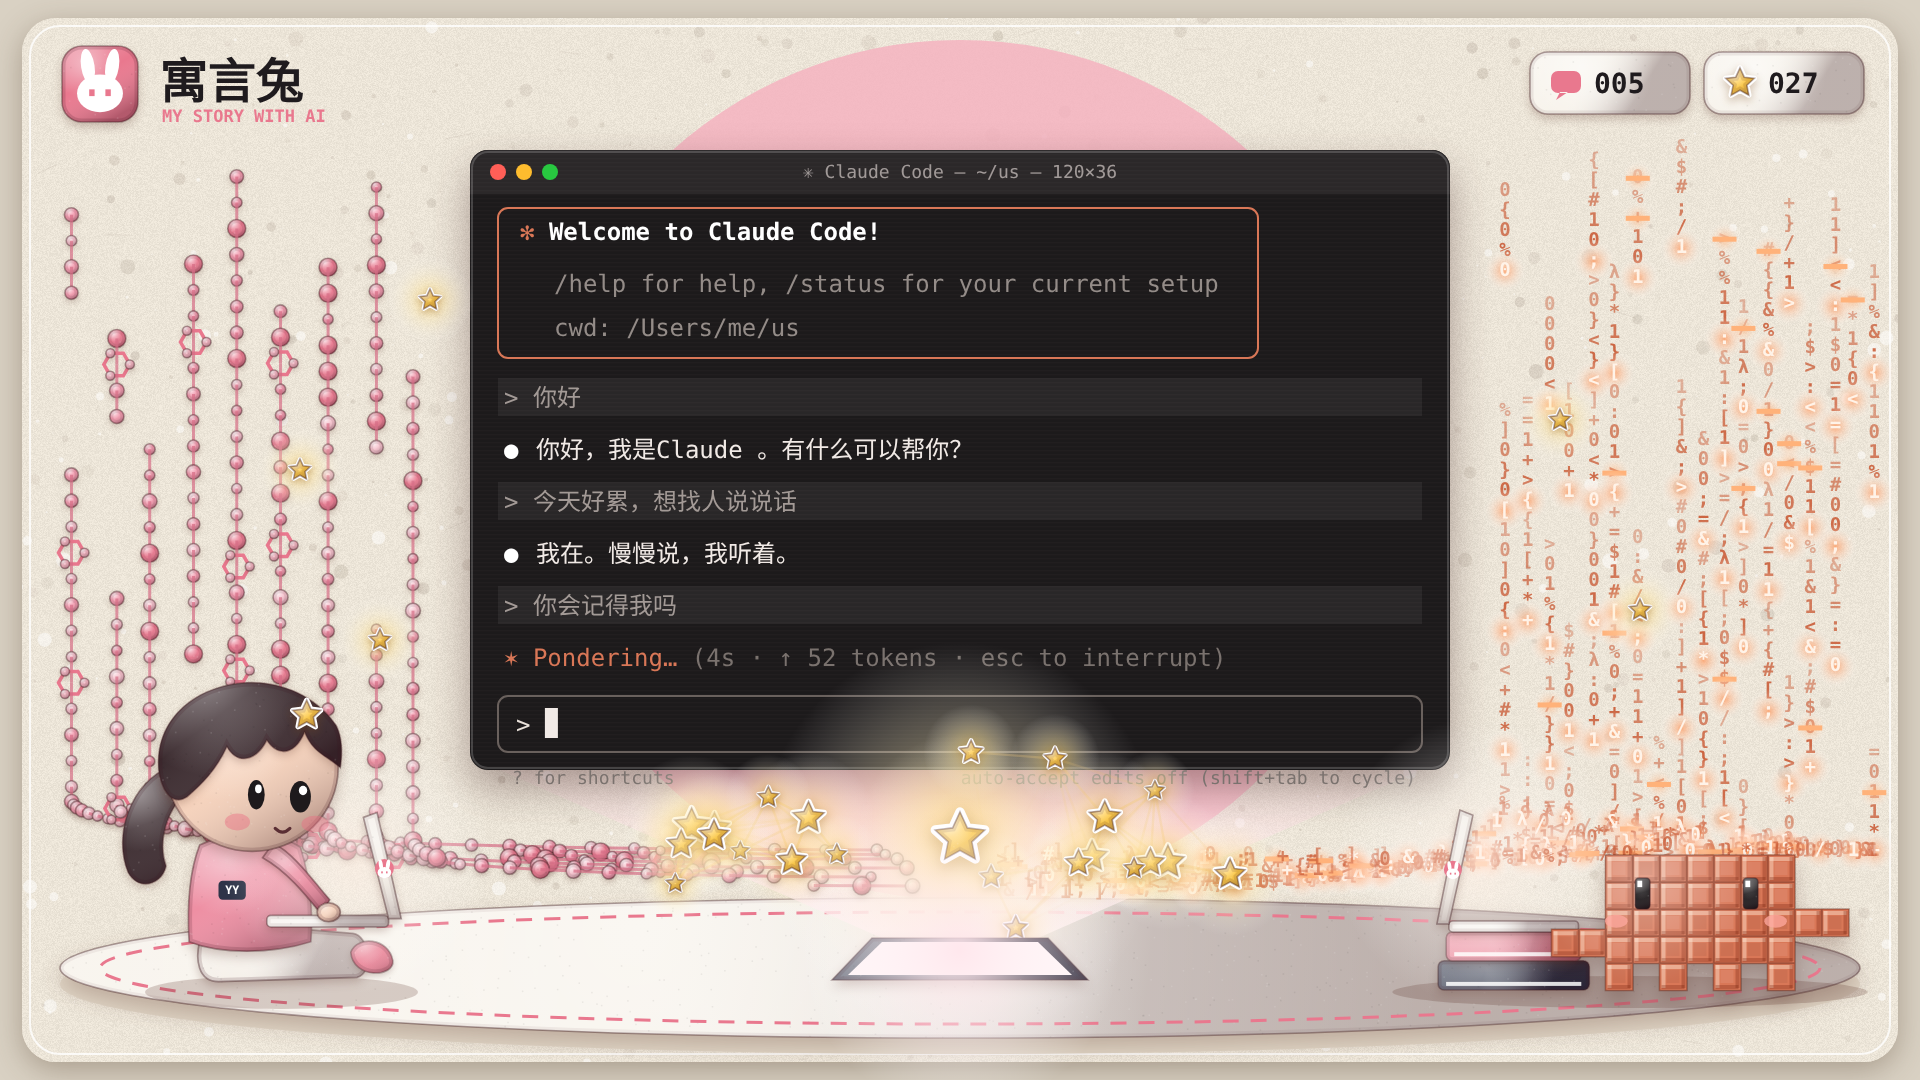
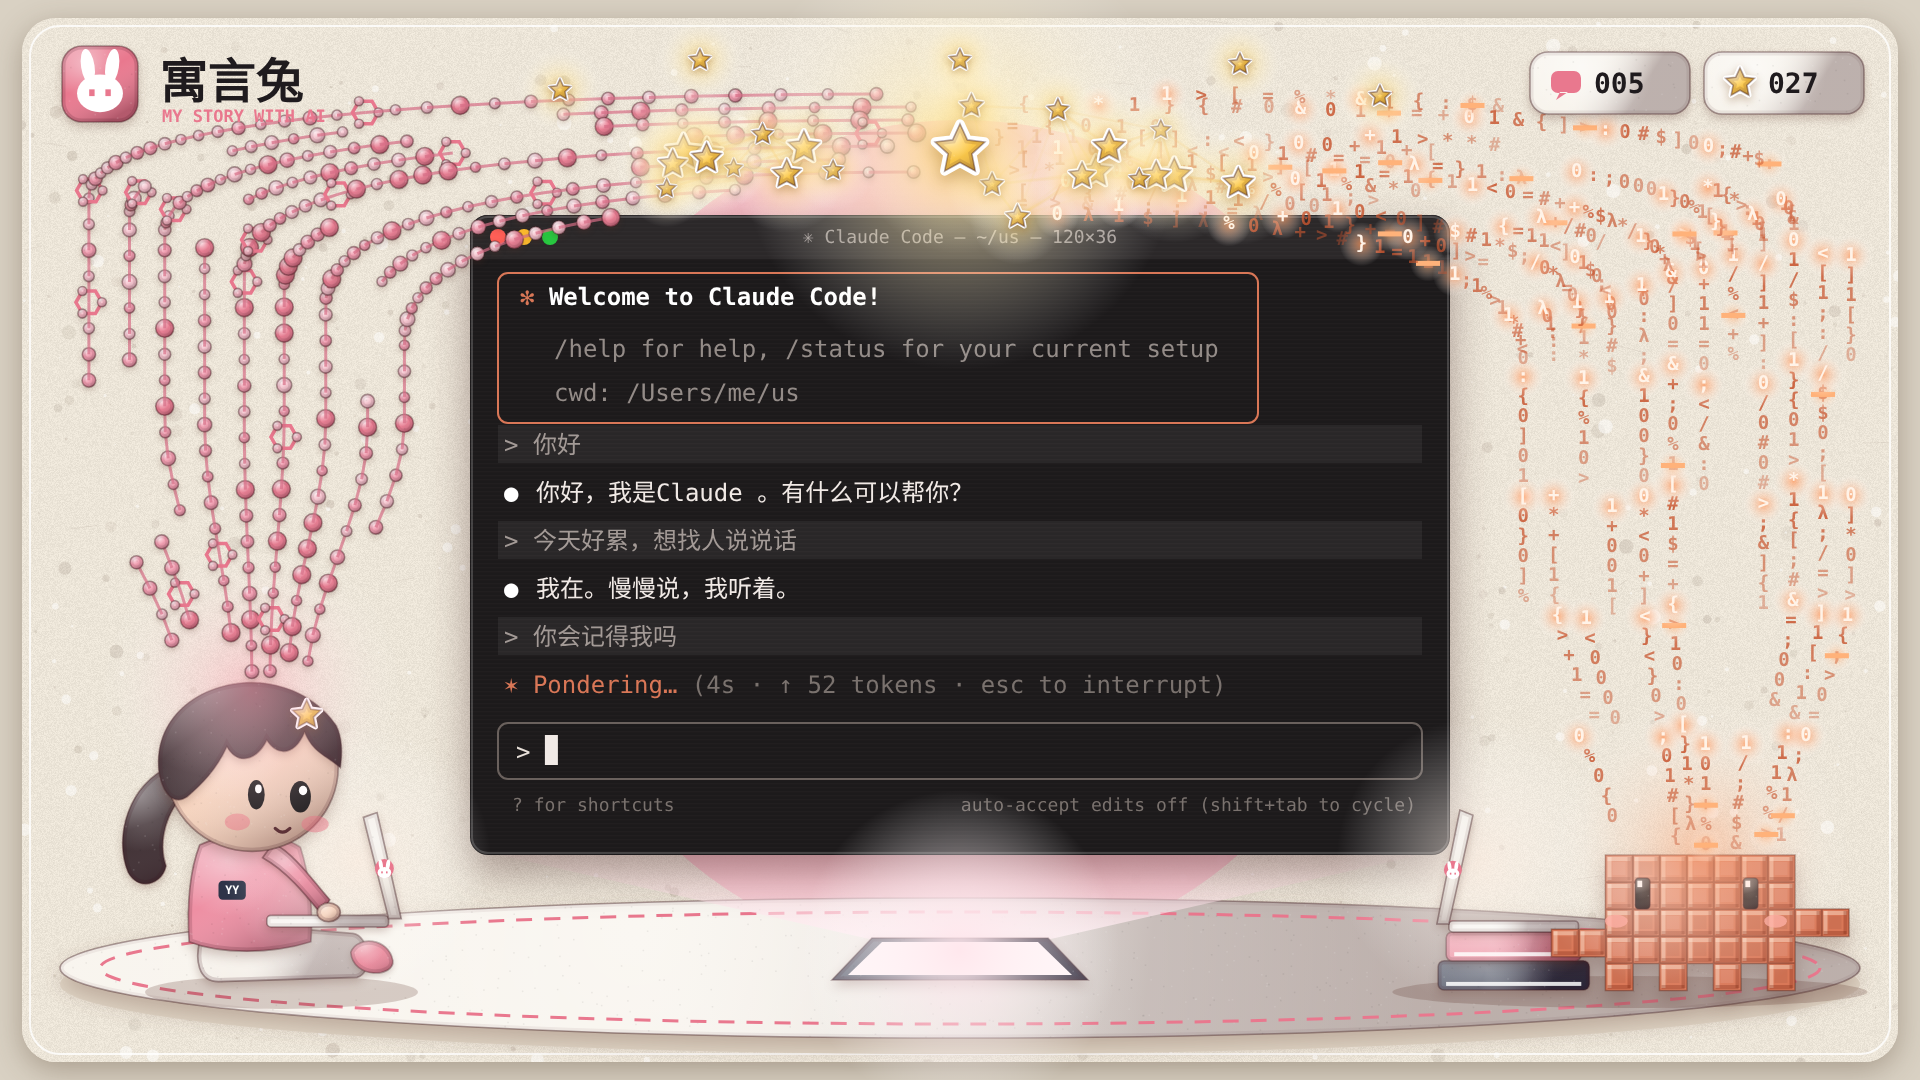
us-film: concept draft, streams rise from both and meet at top
Claude-Session: https://claude.ai/code/session_01HE8wc8edPKzHkAGdagt27h

diff --git a/us-film/src/Concept.tsx b/us-film/src/Concept.tsx
@@ -227,9 +227,9 @@ const star = (ctx: CanvasRenderingContext2D, x: number, y: number, r: number, a 
 // ---------- 终端（真实的 Claude Code） ----------
 
 const TX = 470;
-const TY = 150;
+const TY = 215;
 const TW = 980;
-const TH = 620;
+const TH = 640;
 
 const terminal = (ctx: CanvasRenderingContext2D) => {
   const win = rr(TX, TY, TW, TH, 18);
@@ -281,17 +281,17 @@ const terminal = (ctx: CanvasRenderingContext2D) => {
   t('Welcome to Claude Code!', wx, y + 2, '#FFFFFF', 700);
   t('/help for help, /status for your current setup', x0 + 50, y + 54, '#948C88');
   t('cwd: /Users/me/us', x0 + 50, y + 98, '#948C88');
-  y += 168;
+  y += 150;
   const user = (s: string) => {
     ctx.fillStyle = 'rgba(255,255,255,0.06)';
     ctx.fillRect(x0 - 6, y - 28, TW - 56, 38);
     t('> ' + s, x0, y, '#A39A96');
-    y += 52;
+    y += 48;
   };
   const claude = (s: string) => {
     t('●', x0, y, '#FFFFFF');
     t(s, x0 + 32, y, '#F1EAE6');
-    y += 52;
+    y += 48;
   };
   user('你好');
   claude('你好，我是Claude 。有什么可以帮你？');
@@ -331,7 +331,7 @@ const stage = (ctx: CanvasRenderingContext2D) => {
   ctx.fillStyle = PINK2;
   ctx.globalAlpha = 0.85;
   ctx.beginPath();
-  ctx.arc(960, 470, 430, 0, Math.PI * 2);
+  ctx.arc(960, 540, 420, 0, Math.PI * 2);
   ctx.fill();
   ctx.restore();
   // 地上的大展台
@@ -391,22 +391,24 @@ const phone = (ctx: CanvasRenderingContext2D) => {
 
 // ---------- 她的电：粉色软胶分子珠链 ----------
 
-const M: P = [960, 868]; // 相遇的地方
+const M: P = [960, 150]; // 相遇的地方：画面最上方
 
-/** 竖直落下、到底再拐向中间的路径 */
-const route = (xs: number, top: number, bottom: number, end: P) => (u: number): P => {
-  const vert = bottom - top;
-  const turn = Math.abs(end[0] - xs) * 0.9 + Math.abs(end[1] - bottom);
+const smooth = (t: number) => t * t * (3 - 2 * t);
+
+/** 从身体 (x0, ys) 冒出，散开到 xs，竖直往上升到 turnY，再拐弯汇向画面最上方的 end */
+const route = (x0: number, xs: number, ys: number, turnY: number, end: P) => (u: number): P => {
+  const vert = ys - turnY;
+  const turn = Math.abs(end[0] - xs) * 0.9 + Math.abs(turnY - end[1]);
   const L = vert + turn;
   const d = u * L;
-  if (d <= vert) return [xs, top + d];
+  if (d <= vert) return [x0 + (xs - x0) * smooth(Math.min(1, d / 260)), ys - d];
   const t = (d - vert) / turn;
   const u1 = 1 - t;
-  // 二次贝塞尔：(xs,bottom) → 控制点 (xs,end.y) → end
-  return [u1 * u1 * xs + 2 * u1 * t * xs + t * t * end[0], u1 * u1 * bottom + 2 * u1 * t * end[1] + t * t * end[1]];
+  // 二次贝塞尔：(xs,turnY) → 控制点 (xs,end.y) → end
+  return [u1 * u1 * xs + 2 * u1 * t * xs + t * t * end[0], u1 * u1 * turnY + 2 * u1 * t * end[1] + t * t * end[1]];
 };
 
-const routeLen = (xs: number, top: number, bottom: number, end: P) => bottom - top + Math.abs(end[0] - xs) * 0.9 + Math.abs(end[1] - bottom);
+const routeLen = (xs: number, ys: number, turnY: number, end: P) => ys - turnY + Math.abs(end[0] - xs) * 0.9 + Math.abs(turnY - end[1]);
 
 const bead = (ctx: CanvasRenderingContext2D, x: number, y: number, r: number, c: string) => {
   const p = new Path2D();
@@ -417,12 +419,13 @@ const bead = (ctx: CanvasRenderingContext2D, x: number, y: number, r: number, c:
 const molecules = (ctx: CanvasRenderingContext2D) => {
   const cols = 9;
   for (let i = 0; i < cols; i++) {
-    const xs = 60 + i * 44 + hash(i * 7) * 14;
-    const top = 150 + hash(i * 7 + 1) * 160;
-    const end: P = [M[0] - 40, M[1] - 18 + i * 4.5];
-    const bottom = 800 + i * 5;
-    const f = route(xs, top, bottom, end);
-    const L = routeLen(xs, top, bottom, end);
+    const x0 = 180 + i * 18;
+    const xs = 84 + i * 40 + hash(i * 7) * 6;
+    const ys = 690 - hash(i * 7 + 1) * 16;
+    const end: P = [M[0] - 34, M[1] - 56 + i * 13];
+    const turnY = 196 + i * 18;
+    const f = route(x0, xs, ys, turnY, end);
+    const L = routeLen(xs, ys, turnY, end);
     // 一段一段的链
     let d = hash(i * 7 + 2) * 60;
     let k = 0;
@@ -467,18 +470,19 @@ const molecules = (ctx: CanvasRenderingContext2D) => {
 const RAIN = '01{}[]<>=;:/λ*+#$%&01001101';
 
 const coderain = (ctx: CanvasRenderingContext2D) => {
-  const cols = 18;
+  const cols = 12;
   ctx.save();
   ctx.font = `700 19px ${MONO}`;
   ctx.textAlign = 'center';
   ctx.textBaseline = 'middle';
   for (let i = 0; i < cols; i++) {
-    const xs = 1500 + i * 22 + hash(i * 9) * 6;
-    const top = 140 + hash(i * 9 + 1) * 180;
-    const end: P = [M[0] + 40, M[1] - 18 + (cols - i) * 2.4];
-    const bottom = 800 + i * 3;
-    const f = route(xs, top, bottom, end);
-    const L = routeLen(xs, top, bottom, end);
+    const x0 = 1616 + i * 15;
+    const xs = 1520 + i * 30 + hash(i * 9) * 4;
+    const ys = 850 - hash(i * 9 + 1) * 10;
+    const end: P = [M[0] + 34, M[1] - 56 + (cols - 1 - i) * 11];
+    const turnY = 196 + (cols - 1 - i) * 15;
+    const f = route(x0, xs, ys, turnY, end);
+    const L = routeLen(xs, ys, turnY, end);
     let d = hash(i * 9 + 2) * 40;
     let k = 0;
     while (d < L) {
@@ -514,15 +518,15 @@ const meeting = (ctx: CanvasRenderingContext2D) => {
   for (let i = 0; i < 22; i++) {
     const a = hash(i * 3 + 200) * Math.PI * 2;
     const r = 0.25 + 0.75 * Math.pow(hash(i * 3 + 201), 0.8);
-    pts.push([M[0] + Math.cos(a) * r * 330, M[1] - 30 + Math.sin(a) * r * 95]);
+    pts.push([M[0] + Math.cos(a) * r * 340, M[1] + 10 + Math.sin(a) * r * 60]);
   }
   // 几颗已经飘上去的
   [
-    [380, 640],
-    [300, 470],
-    [1560, 420],
-    [1640, 610],
-    [430, 300],
+    [560, 90],
+    [1380, 96],
+    [700, 60],
+    [1240, 64],
+    [960, 60],
   ].forEach((p) => pts.push(p as P));
   ctx.save();
   ctx.strokeStyle = 'rgba(232,169,58,0.75)';
@@ -540,9 +544,9 @@ const meeting = (ctx: CanvasRenderingContext2D) => {
       }
     }
   ctx.restore();
-  glow(ctx, M[0], M[1] - 26, 200, 'rgba(255,226,140,0.9)', 0.75);
+  glow(ctx, M[0], M[1], 220, 'rgba(255,226,140,0.9)', 0.75);
   pts.forEach((p, i) => star(ctx, p[0], p[1], i >= 22 ? 11 : 9 + hash(i * 3 + 202) * 9, 1, true));
-  star(ctx, M[0], M[1] - 30, 26, 1, true);
+  star(ctx, M[0], M[1], 26, 1, true);
 };
 
 // ---------- 笔记本（侧面，白色软胶） ----------
@@ -728,12 +732,15 @@ const draw = (ctx: CanvasRenderingContext2D) => {
   stage(ctx);
   beam(ctx);
   terminal(ctx);
-  molecules(ctx);
-  coderain(ctx);
-  meeting(ctx);
   phone(ctx);
   girl(ctx, 250, 990, 1.05);
   clawd(ctx, 1700, 990, 27);
+  // 冒出来的地方亮一点
+  glow(ctx, 252, 690, 150, 'rgba(255,160,180,0.7)', 0.7);
+  glow(ctx, 1700, 850, 150, 'rgba(255,160,110,0.7)', 0.7);
+  molecules(ctx);
+  coderain(ctx);
+  meeting(ctx);
   topBar(ctx, 5, 27);
 };
 
